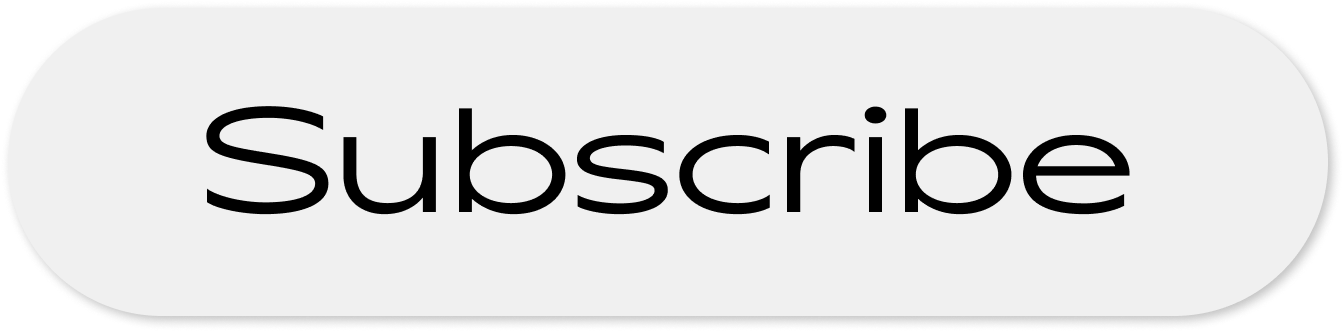
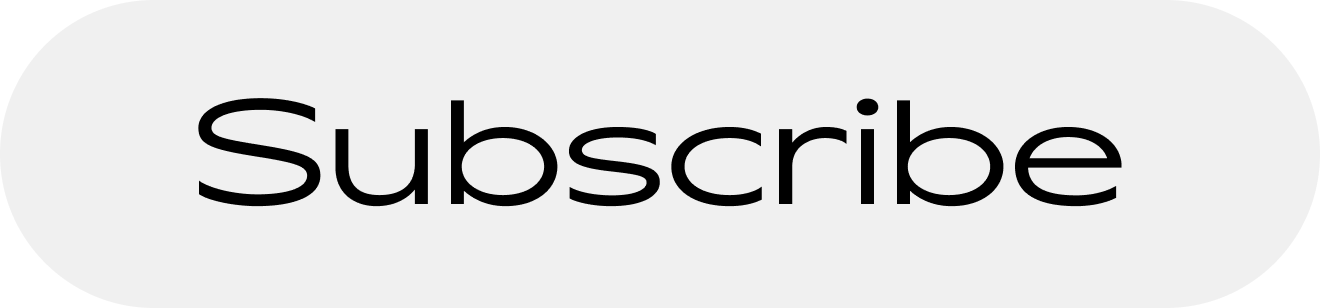
button
button

diff --git a/pages/about/index.vue b/pages/about/index.vue
@@ -129,10 +129,11 @@ p
   margin-bottom: 80px
 .subscribe
   width: 345px
-  height: 68px
   background-size: contain
   margin-left: 16px
   background-image: url('/img/subscribe.png')
+  filter: drop-shadow(0 1px 1px rgba(0, 0, 0, 0.25))
+
   @media only screen and (max-width: 600px)
     width: 195px
     height: 30px
@@ -145,6 +146,7 @@ p
   @media only screen and (max-width: 600px)
     font-size: 15px
 .input
+  height: 62px
   width: 83%
   font-size: 30px
   box-shadow: inset 0px 0px 10px rgba(0,0,0,0.25)
@@ -152,9 +154,11 @@ p
   padding-left: 25px
   @media only screen and (max-width: 600px)
     font-size: 15px 
+    height: 30px
 .input_container
+  height: 62px
   max-width: 782px
-  max-height: 68px
+  max-height: 62px
   align-self: center
   display: flex
   flex-direction: row
